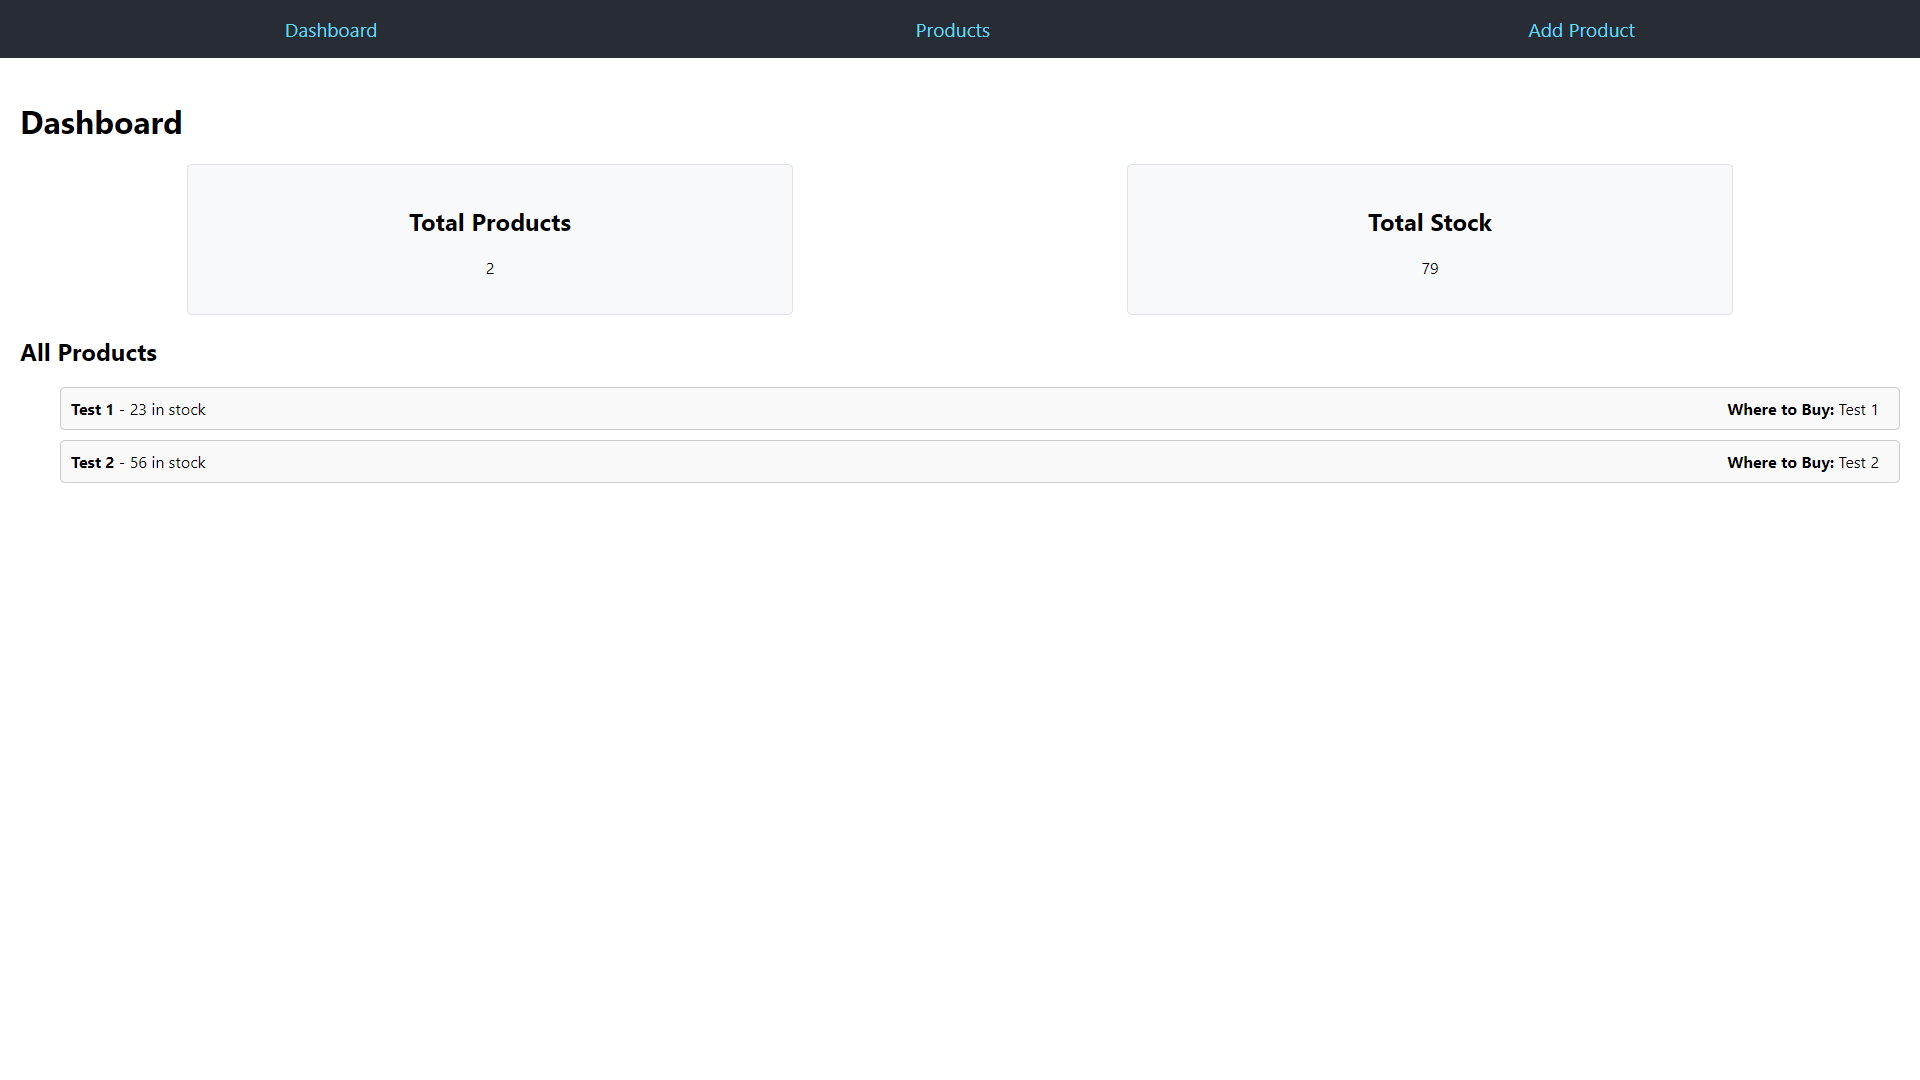
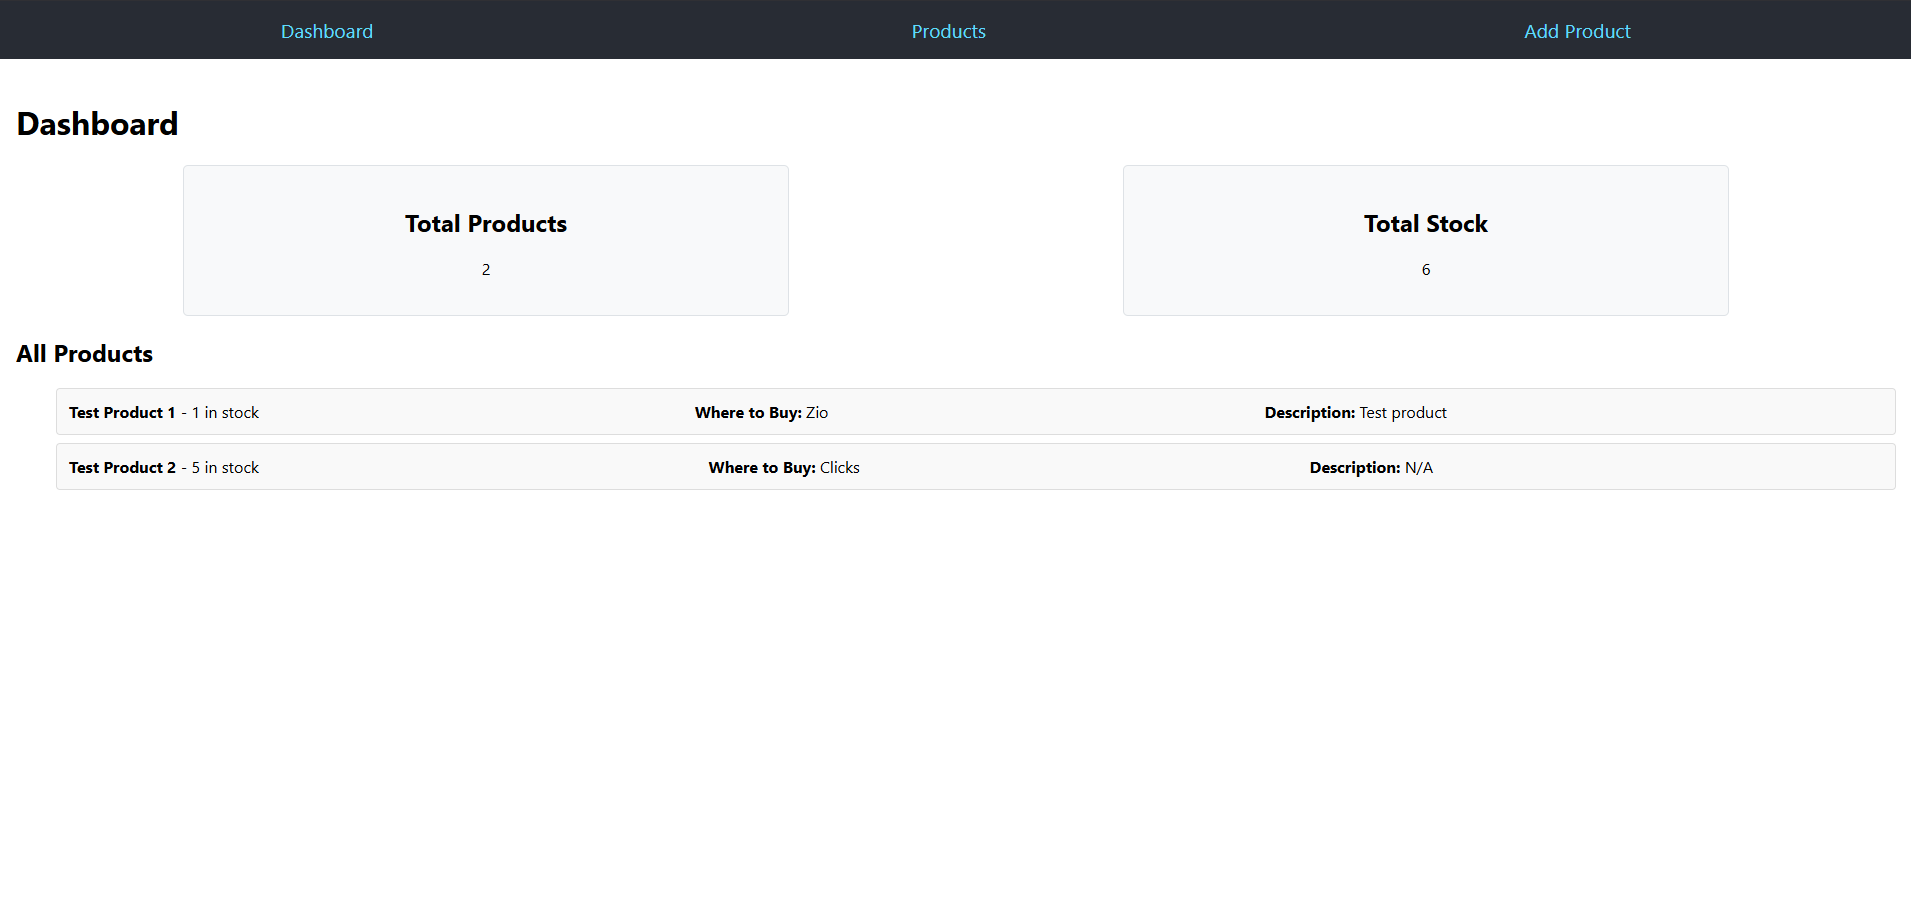
Merge pull request #7 from Jaun-van-Deventer/Updates
update: added new projects

Pull request: update: added new projects

diff --git a/src/pages/JaunProjects.jsx b/src/pages/JaunProjects.jsx
@@ -4,18 +4,18 @@ import { DarkModeContext } from "../components/DarkModeContext";
 import resumeGameImage from '/assets/resume-game.png';
 import invenManager from '/assets/inven-man.png';
 import movieBrowser from '/assets/movie-browser.png';
-import guessNum from '/assets/guess-num.png';
-import pigGame from '/assets/pig-game.png';
+import devlog from '/assets/devlog.png';
 import quicklink from '/assets/quicklink.png';
+import cartemplate from '/assets/cartemplate.png';
 import usePageMeta from '../hooks/usePageMeta';
 
 const projects = [
     { img: resumeGameImage, tag: "Game / Frontend", title: "Resume Game", desc: "A gamified way to explore my resume built with Kaboom.js and Vite.", link: "https://jaun-van-deventer.github.io/resume_game/" },
     { img: quicklink, tag: "Browser Extension", title: "Quicklink-QR", desc: "A Chrome extension that turns any link into a scannable, shareable QR code.", link: "https://github.com/Jaun-van-Deventer/Quicklink-QR" },
-    { img: invenManager, tag: "Full-Stack", title: "Inventory Manager", desc: "An inventory management system built with React, Node.js, and MongoDB.", link: "#" },
+    { img: invenManager, tag: "Full-Stack", title: "Inventory Manager", desc: "An inventory management system built with React, Node.js, and MongoDB.", link: "https://inventory-manager-jade-omega.vercel.app/" },
     { img: movieBrowser, tag: "Frontend / API", title: "Movie Browser", desc: "Search for any movie via an external API. React-based with API integration in progress.", link: "https://jaun-van-deventer.github.io/react-movie-database/" },
-    { img: guessNum, tag: "Vanilla JS", title: "Guess My Number", desc: "A simple guess-the-number game using vanilla JavaScript, HTML, and CSS.", link: "https://jaun-van-deventer.github.io/guess-my-number/" },
-    { img: pigGame, tag: "Vanilla JS", title: "Pig Game", desc: "First to 100 wins — but rolling a 1 wipes your current score. Press Hold to bank your points.", link: "https://jaun-van-deventer.github.io/pig-game/" },
+    { img: devlog, tag: "Fullstack", title: "Dev Log", desc: "A simple app to keep track of personal development activities.", link: "https://jaun-van-deventer.github.io/guess-my-number/" },
+    { img: cartemplate, tag: "Fullstack", title: "Car Reseller Template", desc: "A responsive template for a car reseller website", link: "https://jaun-van-deventer.github.io/pig-game/" },
 ];
 
 function JaunProjects() {